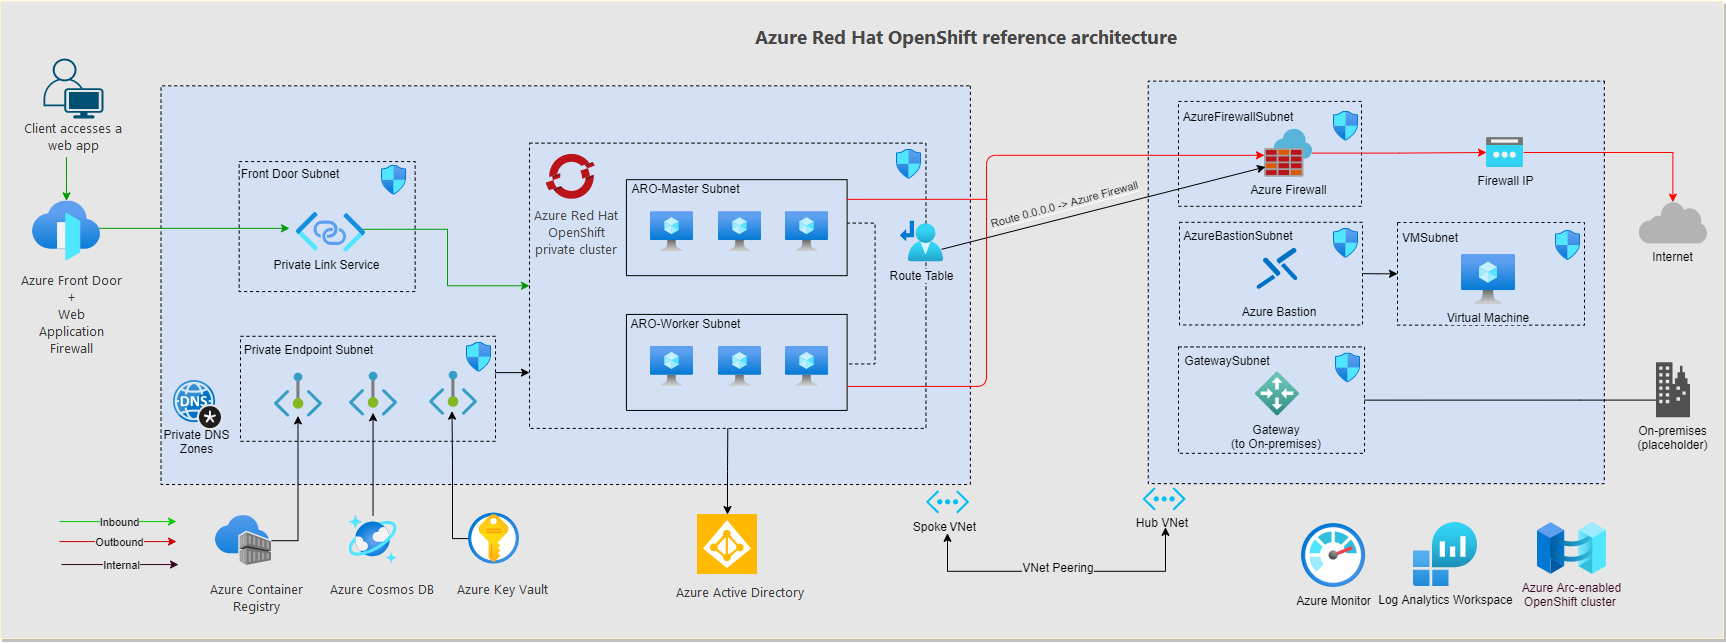
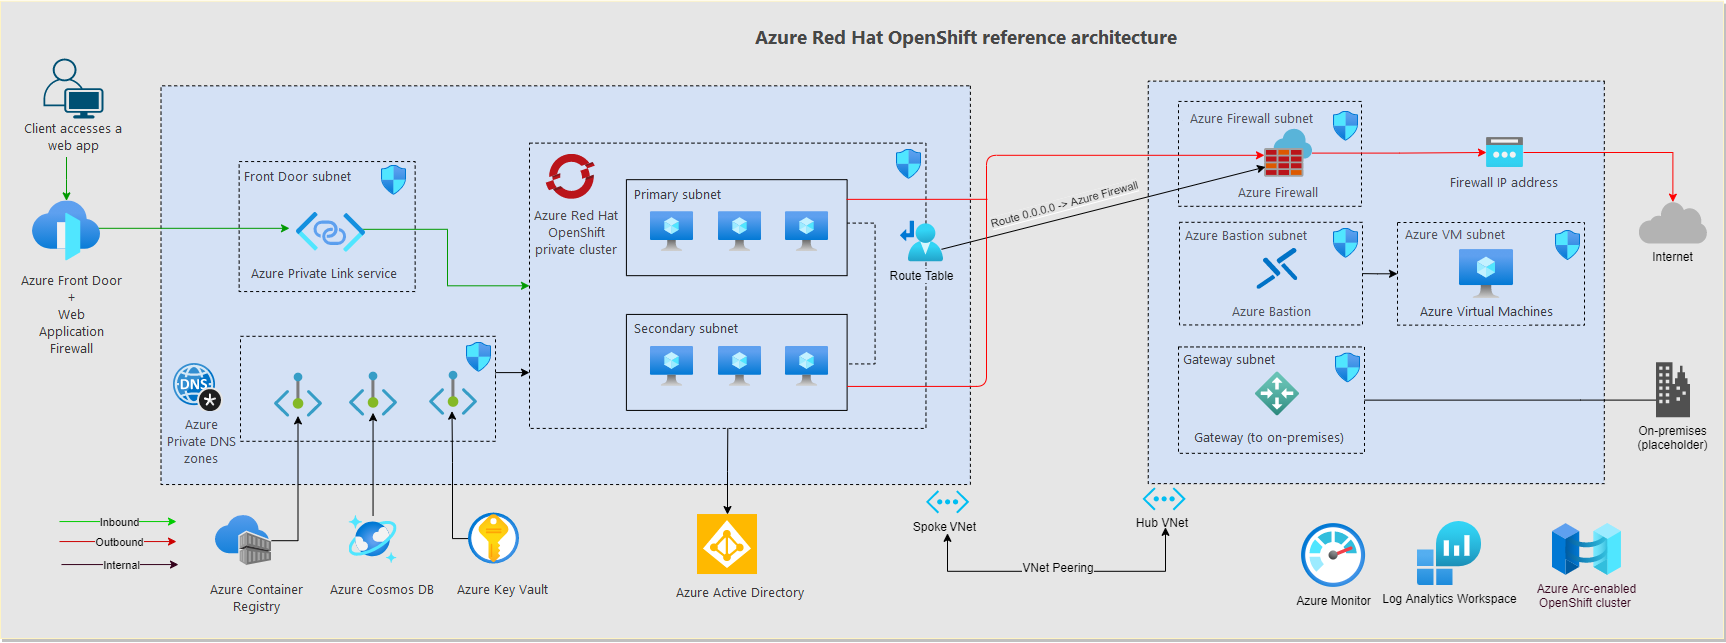
edits

diff --git a/docs/scenarios/app-platform/azure-red-hat-openshift/network-topology-connectivity.md b/docs/scenarios/app-platform/azure-red-hat-openshift/network-topology-connectivity.md
@@ -70,7 +70,7 @@ Use incoming (ingress) controllers to expose applications running in the Azure R
 The following steps describe the flow if you use [Azure Front Door](/azure/openshift/howto-secure-openshift-with-front-door) with an Azure Red Hat OpenShift private cluster and ingress controller:
 
 1. Clients from the public internet resolve the DNS name for the application that points to [Azure Front Door](/azure/openshift/howto-secure-openshift-with-front-door).
-1. Azure Front Door uses a private link service to access the private IP address of the Azure internal network load balancer and access an application in the Azure Red Hat OpenShift ingress controller.
+1. Azure Front Door uses the Azure Private Link service to access the private IP address of the Azure internal network load balancer and access an application in the Azure Red Hat OpenShift ingress controller.
 
 These steps describe the flow for a non-web application that accesses an Azure Red Hat OpenShift private cluster:
 
